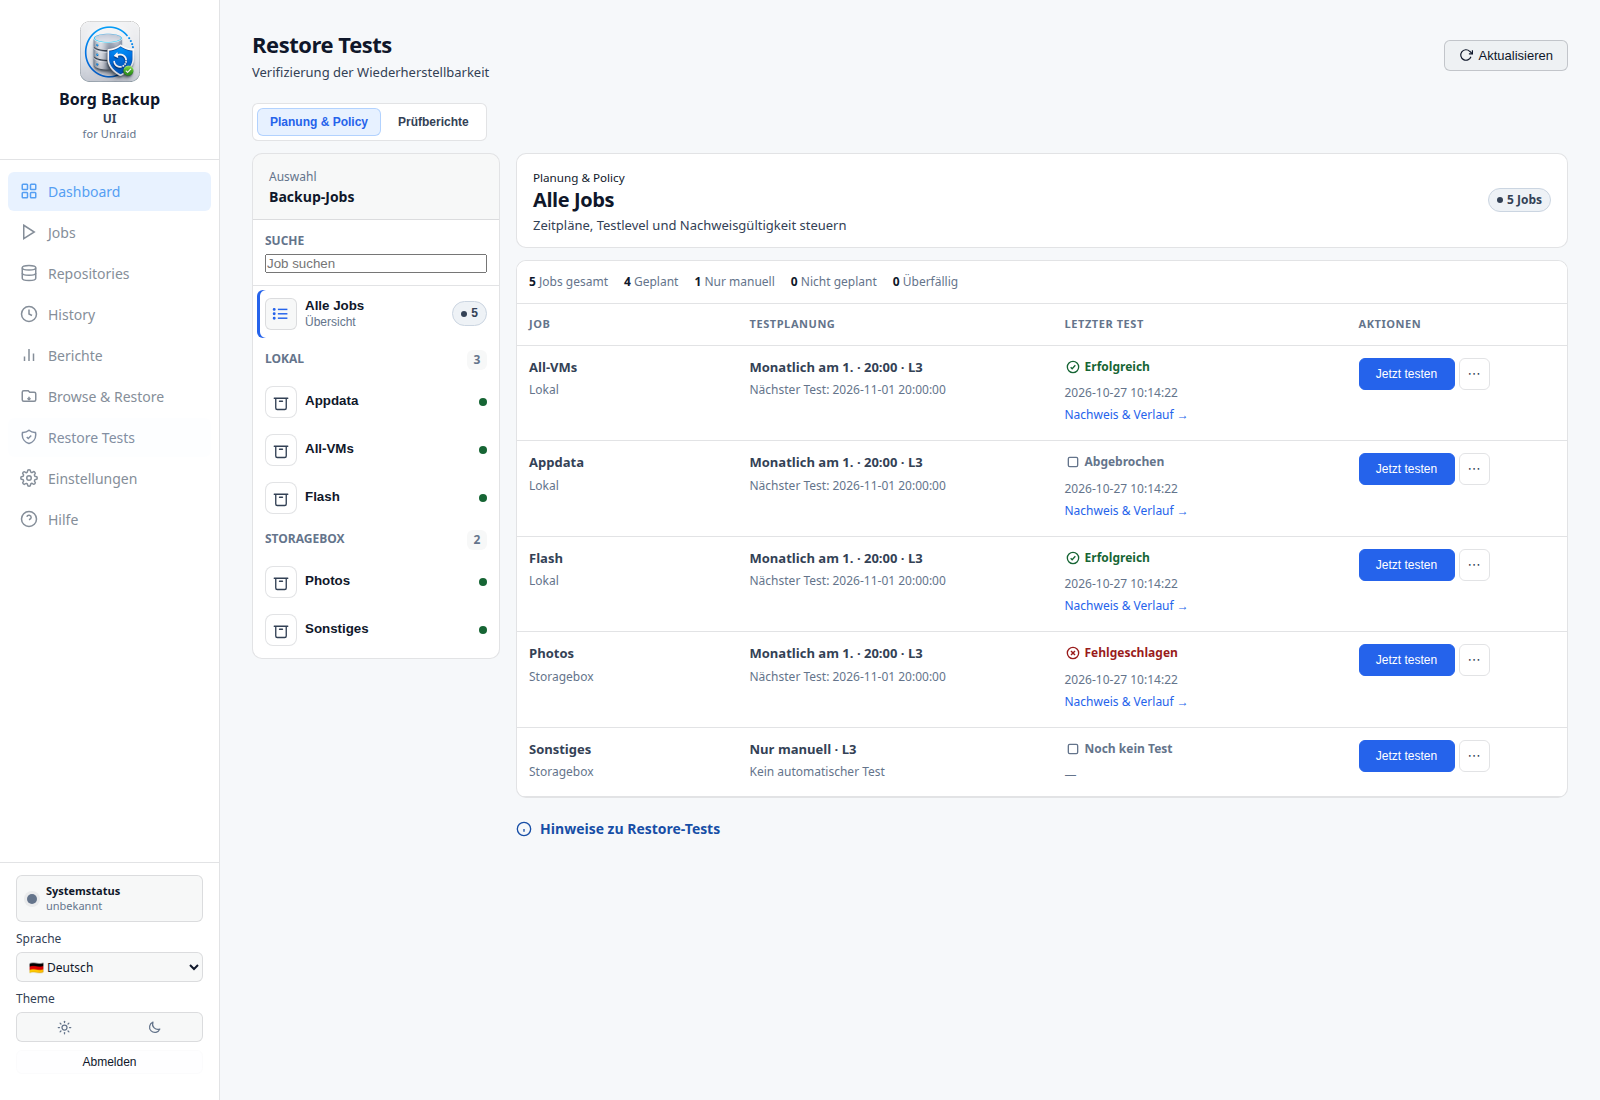
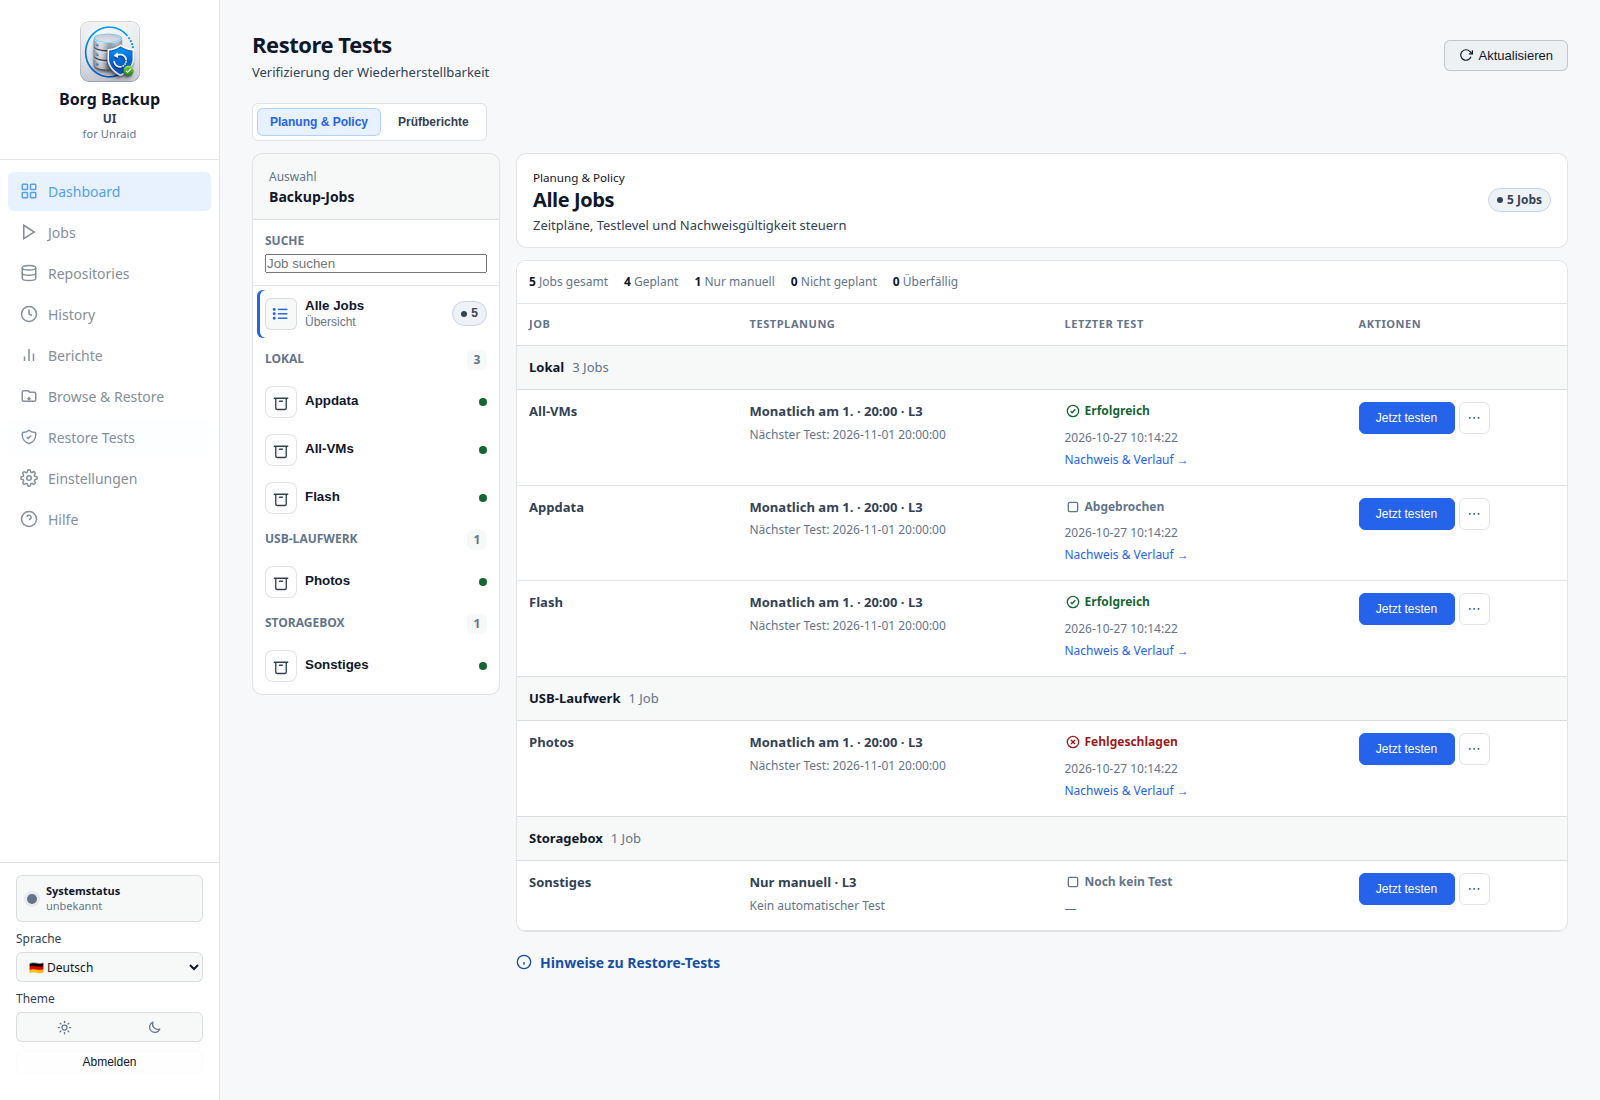
Group restore test planning by occupied locations (#610)

diff --git a/ui/js/pages/restore-tests.js b/ui/js/pages/restore-tests.js
@@ -511,6 +511,10 @@ function renderRestoreTestsSubtab() {
   if (reportsBtn) reportsBtn.classList.toggle('active', isReports);
 }
 
+/** Render the selected jobs in non-empty location groups with per-job actions.
+ * @param {Object|null} plan Restore-test plan response; unavailable data shows an error.
+ * @returns {void} Replaces the planning summary and table without changing job state.
+ */
 function renderRestorePlan(plan) {
   const summaryEl = document.getElementById('restore-tests-plan-summary');
   const contentEl = document.getElementById('restore-tests-plan-content');
@@ -541,7 +545,13 @@ function renderRestorePlan(plan) {
   summaryEl.innerHTML = `<div class="rt-plan-summary rt-compact-summary">${[['summaryTotal', planSummary.total], ['summaryScheduled', planSummary.scheduled], ['summaryManual', planSummary.manual], ['summaryOff', planSummary.off], ['summaryOverdue', planSummary.overdue]].map(([label, count]) => `<span class="${label === 'summaryOverdue' && count ? 'attention' : ''}"><b>${count}</b> ${escHtml(restoreTestsT(label))}</span>`).join('')}</div>`;
   const legacyRun = document.getElementById('rt-run-btn');
   if (legacyRun) legacyRun.classList.toggle('hidden', !plan.jobs.some(job => job.scheduler_state === 'legacy'));
-  const rows = sortedJobs.map((j) => {
+  const groups = new Map();
+  for (const job of sortedJobs) {
+    const location = String(job.location || '').toLowerCase();
+    if (!groups.has(location)) groups.set(location, []);
+    groups.get(location).push(job);
+  }
+  const rows = [...groups].map(([location, jobs], index) => `<tbody aria-labelledby="rt-plan-location-${index}"><tr class="rt-plan-location-row"><th scope="rowgroup" colspan="4" id="rt-plan-location-${index}"><span class="rt-plan-location-heading"><strong>${escHtml(restoreTestsLocationLabel(location))}</strong><span>${escHtml(restoreTestsJobCount(jobs.length))}</span></span></th></tr>${jobs.map((j) => {
     const p = j.policy || {};
     const mode = String(p.mode || 'off');
     const busy = restoreTestsState.rowBusy[j.job_key];
@@ -555,7 +565,7 @@ function renderRestorePlan(plan) {
     const activeSchedule = ['active', 'legacy'].includes(state);
     const planning = mode === 'scheduled' ? schedule : restoreTestsT(mode === 'manual_only' ? 'manualOnly' : 'off');
     return `<tr class="${running ? 'rt-plan-running' : ''}" data-rt-job-key="${escHtml(j.job_key)}">
-      <td data-label="${escHtml(restoreTestsT('job'))}"><strong>${escHtml(j.name || j.display_name || j.job_key)}</strong><small>${escHtml(restoreTestsLocationLabel(j.location))}</small>${running ? `<span class="rt-plan-running-label"><span class="running-dot" aria-hidden="true"></span>${escHtml(restoreTestsT('running'))}</span>` : ''}</td>
+      <td data-label="${escHtml(restoreTestsT('job'))}"><strong>${escHtml(j.name || j.display_name || j.job_key)}</strong>${running ? `<span class="rt-plan-running-label"><span class="running-dot" aria-hidden="true"></span>${escHtml(restoreTestsT('running'))}</span>` : ''}</td>
       <td data-label="${escHtml(restoreTestsT('testPlanning'))}" class="rt-plan-schedule"><strong>${escHtml(planning)} · L${Number(p.level || 2)}</strong><small>${escHtml(activeSchedule && j.next_run_at ? `${restoreTestsT('nextTest')}: ${j.next_run_at}` : restoreTestsT('noAutomaticTest'))}</small>${mode === 'scheduled' && !activeSchedule ? `<small class="rt-text-warning">${escHtml(restoreTestsT(`schedulerStates.${state}`))}</small>` : ''}${j.is_overdue ? `<small class="rt-text-warning">${escHtml(restoreTestsT('evidenceDue'))}</small>` : ''}</td>
       <td data-label="${escHtml(restoreTestsT('lastTest'))}"><span class="rt-attempt-status ${result.className}">${restoreTestsStatusIcon(result.className)}${escHtml(result.label)}</span><small>${escHtml(j.last_test_date || '—')}</small>${j.last_test_date ? `<button type="button" class="rt-text-button" data-rt-plan-action="reports" data-job-key="${escHtml(j.job_key)}">${escHtml(restoreTestsT('evidenceAndHistory'))} →</button>` : ''}</td>
       <td data-label="${escHtml(restoreTestsT('actions'))}"><div class="rt-plan-actions">
@@ -563,8 +573,8 @@ function renderRestorePlan(plan) {
         <details class="rt-plan-menu"><summary aria-label="${escHtml(restoreTestsT('actions'))}">⋯</summary><button type="button" class="btn btn-secondary btn-sm" data-rt-plan-action="edit" data-job-key="${escHtml(j.job_key)}" ${busy ? 'disabled' : ''}>${escHtml(restoreTestsT('editPlan'))}</button></details>
       </div></td>
     </tr>`;
-  }).join('');
-  contentEl.innerHTML = `<table class="history-table"><thead><tr>${['job', 'testPlanning', 'lastTest', 'actions'].map(key => `<th>${escHtml(restoreTestsT(key))}</th>`).join('')}</tr></thead><tbody>${rows || `<tr><td colspan="4">${escHtml(restoreTestsT('noJobs'))}</td></tr>`}</tbody></table>`;
+  }).join('')}</tbody>`).join('');
+  contentEl.innerHTML = `<table class="history-table"><thead><tr>${['job', 'testPlanning', 'lastTest', 'actions'].map(key => `<th>${escHtml(restoreTestsT(key))}</th>`).join('')}</tr></thead>${rows || `<tbody><tr><td colspan="4">${escHtml(restoreTestsT('noJobs'))}</td></tr></tbody>`}</table>`;
 }
 
 function rtScheduleLabel(cron) {

diff --git a/ui/restore-tests-redesign.css b/ui/restore-tests-redesign.css
@@ -158,10 +158,10 @@
 #restore-tests-plan-content > .history-table { min-width: 0; table-layout: fixed; }
 #restore-tests-plan-content > .history-table th,
 #restore-tests-plan-content > .history-table td { white-space: normal; overflow-wrap: anywhere; padding: var(--ui-space-3); vertical-align: top; }
-#restore-tests-plan-content > .history-table th:nth-child(1) { width: 21%; }
-#restore-tests-plan-content > .history-table th:nth-child(2) { width: 30%; }
-#restore-tests-plan-content > .history-table th:nth-child(3) { width: 28%; }
-#restore-tests-plan-content > .history-table th:nth-child(4) { width: 21%; }
+#restore-tests-plan-content > .history-table thead th:nth-child(1) { width: 21%; }
+#restore-tests-plan-content > .history-table thead th:nth-child(2) { width: 30%; }
+#restore-tests-plan-content > .history-table thead th:nth-child(3) { width: 28%; }
+#restore-tests-plan-content > .history-table thead th:nth-child(4) { width: 21%; }
 #restore-tests-plan-content td > strong,
 #restore-tests-plan-content td > small { display: block; }
 #restore-tests-plan-content td > small { margin-top: var(--ui-space-1); font-size: var(--ui-font-size-xs); color: var(--ui-color-text-subtle); }
@@ -244,3 +244,12 @@
 .rt-report-diagnostics .rt-step-detail-item { min-width: 0; }
 .rt-report-diagnostics .rt-step-detail-item strong { overflow-wrap: anywhere; }
 .rt-report-card .rt-check-evidence .rt-step-detail-section { margin-top: var(--ui-space-2); }
+
+/* Location headers span the existing four columns, including the mobile layout. */
+#restore-tests-plan-content .rt-plan-location-row th { background: var(--ui-color-surface-subtle); color: var(--ui-color-text); font-size: var(--ui-font-size-sm); text-transform: none; letter-spacing: normal; }
+.rt-plan-location-heading { display: flex; align-items: baseline; gap: var(--ui-space-2); }
+.rt-plan-location-heading > span { color: var(--ui-color-text-subtle); font-weight: 400; }
+@media (max-width: 767px) {
+  #restore-tests-plan-content .rt-plan-location-row { display: block; }
+  #restore-tests-plan-content .rt-plan-location-row th { display: block; width: auto; }
+}

diff --git a/ui/docs/help.md b/ui/docs/help.md
@@ -224,7 +224,7 @@ Ein Skip erneuert keinen Nachweis. Legacy-Intervalltests bleiben getrennt unter
 **Einstellungen > Restore**. Ohne bisherigen Bericht gibt es keinen entsprechenden
 Überfälligkeits-Reminder.
 
-Die Planung bündelt die Informationen in vier Spalten. **Nachweis & Verlauf** öffnet die Berichte des Jobs. Erfolgreiche Berichte erscheinen als **Wiederherstellungsnachweis** mit Archiv und aufbauendem Prüfumfang L1, L1 + L2 oder L1 + L2 + L3. Die Gültigkeit wird getrennt vom Ergebnis des Versuchs ausgewiesen. Bei einem Abbruch ist ein weiterhin gültiger vorheriger Nachweis direkt erreichbar. Ein Bereich **Technische Nachweise** bündelt Prüfschritte und Logdiagnose; **Prüfdaten anzeigen** öffnet die zugehörigen Werte direkt beim Schritt; vorhandene Berichte bleiben unverändert.
+Die Planung bündelt die Informationen in vier Spalten, gegliedert nach Standort mit Jobanzahl. Leere Standorte werden ausgeblendet; die Standortangabe unter jedem Job entfällt. **Nachweis & Verlauf** öffnet die Berichte des Jobs. Erfolgreiche Berichte erscheinen als **Wiederherstellungsnachweis** mit Archiv und aufbauendem Prüfumfang L1, L1 + L2 oder L1 + L2 + L3. Die Gültigkeit wird getrennt vom Ergebnis des Versuchs ausgewiesen. Bei einem Abbruch ist ein weiterhin gültiger vorheriger Nachweis direkt erreichbar. Ein Bereich **Technische Nachweise** bündelt Prüfschritte und Logdiagnose; **Prüfdaten anzeigen** öffnet die zugehörigen Werte direkt beim Schritt; vorhandene Berichte bleiben unverändert.
 
 ### Testlevel
 

diff --git a/ui/docs/help.en.md b/ui/docs/help.en.md
@@ -223,7 +223,7 @@ Server timezone applies; missed/skipped slots are not caught up. Skipping does
 not renew evidence. Legacy interval tests remain separate under **Settings >
 Restore**. No corresponding overdue reminder is sent without a previous report.
 
-Planning combines the information into four columns. **Evidence & history** opens the job reports. Successful reports appear as **Restoration evidence**, identifying the archive and cumulative scope: L1, L1 + L2 or L1 + L2 + L3. Validity is separate from the attempt result. After cancellation, previous valid evidence is directly accessible. One **Technical evidence** section combines checks and log diagnostics; **Show check data** opens supporting values with their check; existing reports remain unchanged.
+Planning combines the information into four columns, grouped by location with job counts. Empty locations are hidden, and location is not repeated below each job. **Evidence & history** opens the job reports. Successful reports appear as **Restoration evidence**, identifying the archive and cumulative scope: L1, L1 + L2 or L1 + L2 + L3. Validity is separate from the attempt result. After cancellation, previous valid evidence is directly accessible. One **Technical evidence** section combines checks and log diagnostics; **Show check data** opens supporting values with their check; existing reports remain unchanged.
 
 ### Test Levels
 

diff --git a/docs/user-manual/de/user-manual.md b/docs/user-manual/de/user-manual.md
@@ -887,7 +887,7 @@ Die Seite verwaltet:
 
 ### 8.2 Reiter Planung & Policy
 
-Die kompakte Tabelle zeigt **Job**, **Testplanung**, **Letzter Test** und **Aktionen**. Der Standort steht beim Jobnamen; Zeitplan, Testlevel und nächster Termin stehen zusammen unter Testplanung. Hinweise sind unterhalb der Tabelle einklappbar.
+Die kompakte Tabelle zeigt **Job**, **Testplanung**, **Letzter Test** und **Aktionen**. Standortüberschriften mit Jobanzahl gliedern die Tabelle. Leere Standorte werden ausgeblendet; die Standortangabe unter dem Jobnamen entfällt. Zeitplan, Testlevel und nächster Termin stehen zusammen unter Testplanung. Hinweise sind unterhalb der Tabelle einklappbar.
 
 Öffnen Sie **⋯ > Plan bearbeiten** bei einem Job, um Policy, Testlevel und Nachweisgültigkeit festzulegen. **Nachweis & Verlauf** öffnet die zugehörigen Prüfberichte und setzt deren Filter zurück. Der letzte Versuch zeigt sein Ergebnis unabhängig von der Nachweisgültigkeit; auch ein abgelaufener erfolgreicher Test bleibt als **Erfolgreich** erkennbar.
 

diff --git a/docs/user-manual/en/user-manual.md b/docs/user-manual/en/user-manual.md
@@ -879,7 +879,7 @@ The page manages:
 
 ### 8.2 Planning & Policy Tab
 
-The compact table shows **Job**, **Test planning**, **Last test** and **Actions**. Location is shown with the job name; schedule, test level and next execution are combined under Test planning. Guidance can be expanded below the table.
+The compact table shows **Job**, **Test planning**, **Last test** and **Actions**. Location headings with job counts group the table. Empty locations are hidden; location is not repeated below each job name. Schedule, test level and next execution are combined under Test planning. Guidance can be expanded below the table.
 
 Choose **⋯ > Edit plan** for a job to configure its policy, test level and evidence validity. **Evidence & history** opens the job reports and clears their filters. The last attempt shows its result independently of evidence validity; an expired successful test remains **Successful**.
 

diff --git a/release-notes/pending/610.md b/release-notes/pending/610.md
@@ -4,3 +4,4 @@
 - Present successful reports as scoped restoration evidence with cumulative L1, L1 + L2 and L1 + L2 + L3 checks. Keep test attempts separate from evidence validity and link cancelled attempts to existing valid evidence. Preserve report filters, technical details, and retained reports. (#610)
 - Consolidate technical evidence into one expandable section, attach supporting data to each check and remove the repeated report ID/start/end execution block. Use thin separators and the normal report surface for technical fields. (#610)
 - Combine coverage percentage and its file-count basis in one report row so execution and test scope have a balanced five-row layout. (#610)
+- Group Restore Tests planning by non-empty locations with job counts, keeping four columns and removing repeated location labels below job names. (#610)
